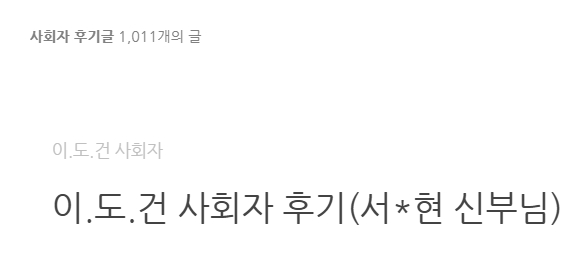
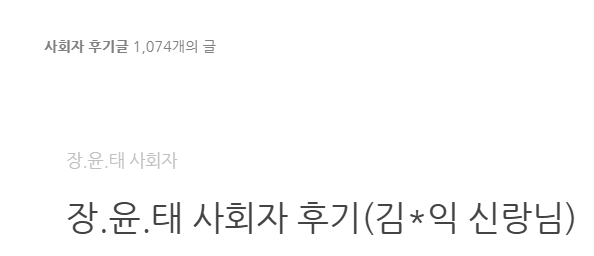
후기 개수 업데이트 (합계 5,324 / 표기 5,000+), 증빙 캡처 교체

Changed region(s): [[0.0893, 0.7188, 0.9825, 0.9375], [0.0298, 0.0938, 0.387, 0.2188], [0.0893, 0.5312, 0.2977, 0.6562]]

diff --git a/client/src/data/reviewStats.ts b/client/src/data/reviewStats.ts
@@ -8,7 +8,7 @@
  *   2. alt 텍스트의 숫자도 함께 맞춰서 수정 (스크린샷 설명과 숫자가 일치하도록)
  *   3. 필요하면 src(이미지 경로)도 새 캡처 이미지로 교체
  *   4. PROOF_AS_OF(기준일)도 캡처 날짜로 갱신
- * 나머지(합계, 반올림 표시, "4,100+" 류 문구)는 전부 자동 계산됩니다.
+ * 나머지(합계, 반올림 표시, "5,000+" 류 문구)는 전부 자동 계산됩니다.
  */
 
 export interface ProofImage {
@@ -25,77 +25,77 @@ export interface ProofImage {
 export const PROOF_IMAGES: ProofImage[] = [
   {
     src: "/images/proof/proof-soomgo.jpg",
-    alt: "숨고 프로필 리뷰수 890건",
+    alt: "숨고 프로필 리뷰수 944건",
     label: "출처 · 숨고",
     source: "숨고",
-    count: 890,
+    count: 944,
     url: "https://soomgo.com/profile/users/4719699",
     linkLabel: "숨고 프로필에서 확인",
   },
   {
     src: "/images/proof/proof-blog.jpg",
-    alt: "홈페이지 후기게시판 Total 598건",
+    alt: "홈페이지 후기게시판 Total 622건",
     label: "출처 · 후기 게시판",
     source: "후기 게시판",
-    count: 598,
+    count: 622,
     url: "http://musicin.godohosting.com/bbs/board.php?bo_table=forum",
     linkLabel: "후기 게시판에서 확인",
   },
   {
     src: "/images/proof/proof-smartstore.jpg",
-    alt: "네이버 스마트스토어 리뷰 550건",
+    alt: "네이버 스마트스토어 리뷰 782건",
     label: "출처 · 스마트스토어",
     source: "네이버 스마트스토어",
-    count: 550,
+    count: 782,
     url: "https://smartstore.naver.com/inus_store/products/5466083565",
     linkLabel: "스마트스토어에서 확인",
   },
   {
     src: "/images/proof/proof-singer-blog.jpg",
-    alt: "블로그 사회자 후기글 1,011건",
+    alt: "블로그 사회자 후기글 1,074건",
     label: "출처 · 블로그 (문자·카톡 후기 모음)",
     source: "블로그(문자·카톡)",
-    count: 1011,
+    count: 1074,
     url: "https://blog.naver.com/PostList.naver?blogId=inusmusics&from=postList&categoryNo=71&parentCategoryNo=71",
     linkLabel: "블로그 후기글에서 확인",
   },
   {
     src: "/images/proof/proof-blog-personal.jpg",
-    alt: "고객님이 직접 작성한 블로그 후기글 760건",
+    alt: "고객님이 직접 작성한 블로그 후기글 1,150건",
     label: "출처 · 블로그 (고객님 작성글)",
     source: "블로그(고객 작성)",
-    count: 760,
+    count: 1150,
     url: "https://search.naver.com/search.naver?ssc=tab.blog.all&sm=tab_jum&query=%EC%9D%B4%EB%84%88%EC%8A%A4%EB%AE%A4%EC%A7%81",
     linkLabel: "네이버 블로그 검색에서 확인",
   },
   {
     src: "/images/proof/proof-cafe.jpg",
-    alt: "네이버 카페 고객 후기글 300건",
+    alt: "네이버 카페 고객 후기글 752건",
     label: "출처 · 카페",
     source: "카페",
-    count: 300,
+    count: 752,
     url: "https://search.naver.com/search.naver?ssc=tab.cafe.all&sm=tab_jum&query=%EC%9D%B4%EB%84%88%EC%8A%A4%EB%AE%A4%EC%A7%81",
     linkLabel: "네이버 카페 검색에서 확인",
   },
 ];
 
 /** 기준일 — 캡처/증빙 자료를 갱신한 날짜 */
-export const PROOF_AS_OF = "2026.10.24";
+export const PROOF_AS_OF = "2026.11.24";
 
-/** 정확한 합계 (예: 4,109) */
+/** 정확한 합계 (예: 5,324) */
 export const PROOF_TOTAL = PROOF_IMAGES.reduce((sum, p) => sum + p.count, 0);
 
-/** 마케팅 문구용 "깔끔한" 표시 숫자 — 실제 합계와 무관하게 4,000으로 고정 (증빙 캡처 섹션의 실제 합산 금액만 PROOF_TOTAL로 정확히 표시) */
-export const PROOF_TOTAL_ROUNDED = 4000;
+/** 마케팅 문구용 "깔끔한" 표시 숫자 — 실제 합계와 무관하게 5,000으로 고정 (증빙 캡처 섹션의 실제 합산 금액만 PROOF_TOTAL로 정확히 표시) */
+export const PROOF_TOTAL_ROUNDED = 5000;
 
-/** "4,100" 형태 (쉼표 포함, + 없음) */
+/** "5,000" 형태 (쉼표 포함, + 없음) */
 export const PROOF_TOTAL_ROUNDED_LABEL = PROOF_TOTAL_ROUNDED.toLocaleString();
 
-/** "4,100+" 형태 */
+/** "5,000+" 형태 */
 export const PROOF_TOTAL_DISPLAY = `${PROOF_TOTAL_ROUNDED_LABEL}+`;
 
-/** "4,100건+" 형태 */
+/** "5,000건+" 형태 */
 export const PROOF_TOTAL_DISPLAY_KO = `${PROOF_TOTAL_ROUNDED_LABEL}건+`;
 
-/** 정확한 합계를 "4,109건" 형태로 */
+/** 정확한 합계를 "5,324건" 형태로 */
 export const PROOF_TOTAL_EXACT_LABEL = `${PROOF_TOTAL.toLocaleString()}건`;
